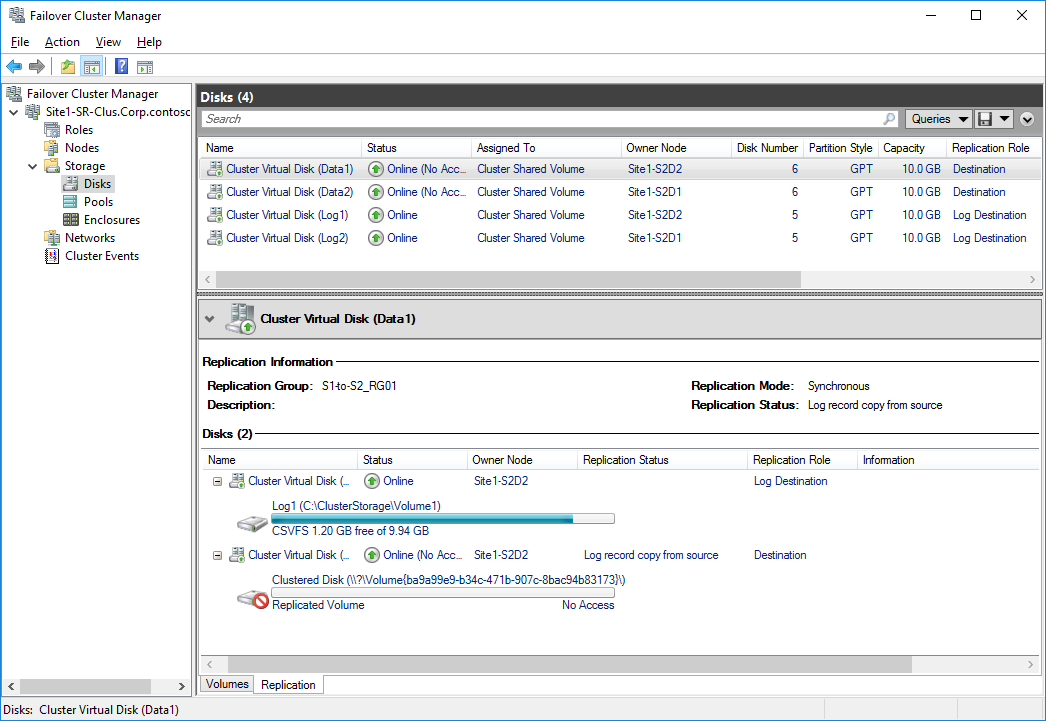
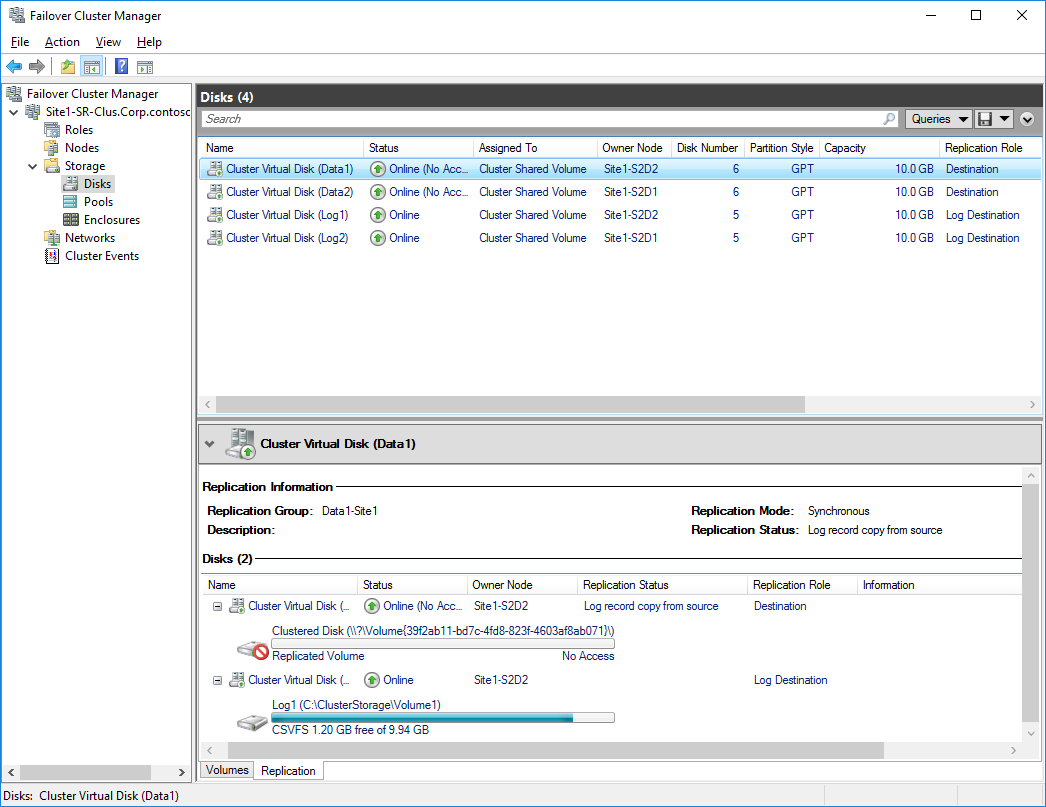
fix
Former-commit-id: b105ae37fa96ade2399ccb57d3c7bb18d4d5b37e

diff --git a/Scenarios/StorageReplica/S2D_to_S2D_Complex/readme.md b/Scenarios/StorageReplica/S2D_to_S2D_Complex/readme.md
@@ -24,7 +24,7 @@
 * In this scenario will be 2 s2d clusters created
 * it is "complex" as it will create 4 volumes (2x Data and 2x Log volumes in each cluster), create VMs on each site and replicate VMs from first to second site and second to first.
 * Nanoservers are used as its just smaller and faster
-* Labscript takes ~32 minutes to finish.
+* Labscript takes 30-50 minutes to finish.
 
 ## Scenario requirements
 
@@ -88,8 +88,8 @@ Suspend-VM -Name *site1*
 #Variables
     $Cluster1Name="Site1-SR-Clus"
     $Cluster2Name="Site2-SR-Clus"
-    $SourceRGName="S1-to-S2_RG02"
-    $DestinationRGName="S1-to-S2_RG01"
+    $SourceRGName="Data1-Site2"
+    $DestinationRGName="Data1-Site1"
 
 #Flip replication
     Set-SRPartnership -NewSourceComputerName $Cluster2Name -SourceRGName $SourceRGName -DestinationComputerName $Cluster1Name -DestinationRGName $DestinationRGName -confirm:$false
@@ -148,8 +148,8 @@ All changes in primary datacenter will be discarted
 #Variables
     $Cluster1Name="Site1-SR-Clus"
     $Cluster2Name="Site2-SR-Clus"
-    $SourceRGName="S1-to-S2_RG02"
-    $DestinationRGName="S1-to-S2_RG01"
+    $SourceRGName="Data1-Site2"
+    $DestinationRGName="Data1-Site1"
 
 #Flip replication
     Set-SRPartnership -NewSourceComputerName $Cluster2Name -SourceRGName $SourceRGName -DestinationComputerName $Cluster1Name -DestinationRGName $DestinationRGName -confirm:$false
@@ -170,8 +170,8 @@ Since VMs lost its storage, all actions will timeout.
 #Variables
     $Cluster1Name="Site1-SR-Clus"
     $Cluster2Name="Site2-SR-Clus"
-    $SourceRGName="S1-to-S2_RG01"
-    $DestinationRGName="S1-to-S2_RG02"
+    $SourceRGName="Data1-Site1"
+    $DestinationRGName="Data1-Site2"
 
 #cleanup VMs
     #Shut down VMs on Data1 volume
@@ -188,7 +188,7 @@ Since VMs lost its storage, all actions will timeout.
             param($VM);
             Copy-Item -Path "$($VM.Path)\Virtual Machines" -Destination "$($VM.Path)\Virtual Machines Bak" -recurse
             Get-VM -Id $VM.id | Remove-VM -force
-            Copy-Item -Path "$($VM.Path)\Virtual Machines Bak" -Destination "$($VM.Path)\Virtual Machines" -recurse
+            Copy-Item -Path "$($VM.Path)\Virtual Machines Bak\*" -Destination "$($VM.Path)\Virtual Machines" -recurse
             Remove-Item -Path "$($VM.Path)\Virtual Machines Bak" -recurse
         }
     }
@@ -197,35 +197,54 @@ Since VMs lost its storage, all actions will timeout.
 
 ````
 
-Meanwhile all VMs disappeared, but cluster resources are still on Cluster1
-
-![](/Scenarios/StorageReplica/S2D_to_S2D_Complex/Screenshots/failedresourcesafterfliptoDC1.png)
+Meanwhile VMs disappeared (or semi-disappered) but (some) cluster resources are still on Cluster1
 
 ````PowerShell
 $Cluster1Name="Site1-SR-Clus"
 
-#see that all VMs are gone
+#see that some VMs are gone
 Get-VM -Cimsession (Get-ClusterNode -Cluster $Cluster1Name).Name
 
 #see that there are some dead resources
 Get-ClusterGroup -Cluster $Cluster1Name | where state -eq failed
  
 ````
+![](/Scenarios/StorageReplica/S2D_to_S2D_Complex/Screenshots/failedresourcesafterfliptoDC1.png)
 
 ## Set the things right 3 - cleanup failed resources and import machines
 
 ````PowerShell
 $Cluster1Name="Site1-SR-Clus"
-#remove failed resources
-Get-ClusterGroup -Cluster $Cluster1Name | where state -eq failed | Remove-ClusterGroup -RemoveResources -Force
-
 #Import all VMs on Site1
+    Invoke-Command -ComputerName (get-clusternode -cluster $Cluster1Name).Name[0] -ScriptBlock{
+        get-childitem C:\ClusterStorage\Data1 -Recurse | Where-Object {($_.extension -eq '.vmcx' -and $_.directory -like '*Virtual Machines*') -or ($_.extension -eq '.xml' -and $_.directory -like '*Virtual Machines*')} | ForEach-Object -Process {
+            Import-VM -Path $_.FullName -ErrorAction SilentlyContinue
+        }
+    }
+
+#perform proper cleanup of VMs located on Data1 volume
+    $VMs=Get-VM -Cimsession (Get-ClusterNode -Cluster $Cluster1Name).Name | where Path -like *Data1*
+    #Find VMs resources
+    foreach ($VM in $VMs){
+        Get-ClusterGroup -Cluster $Cluster1Name | where Name -eq $VM.Name | Remove-ClusterGroup -RemoveResources -Force
+    }
+    #Backup VMs config and remove VMs from Hyper-V hosts.
+    Foreach ($VM in $VMs){
+        invoke-command -computername $VM.ComputerName -ArgumentList $VM -scriptblock {
+            param($VM);
+            Copy-Item -Path "$($VM.Path)\Virtual Machines" -Destination "$($VM.Path)\Virtual Machines Bak" -recurse
+            $vms | Stop-VM -Force -ErrorAction SilentlyContinue #stop VM if its in paused critical state
+            Get-VM -Id $VM.id | Remove-VM -force
+            Copy-Item -Path "$($VM.Path)\Virtual Machines Bak\*" -Destination "$($VM.Path)\Virtual Machines" -recurse -ErrorAction SilentlyContinue
+            Remove-Item -Path "$($VM.Path)\Virtual Machines Bak" -recurse
+        }
+    }
+#Import VMs again
     Invoke-Command -ComputerName (get-clusternode -cluster $Cluster1Name).Name[0] -ScriptBlock{
         get-childitem C:\ClusterStorage\Data1 -Recurse | Where-Object {($_.extension -eq '.vmcx' -and $_.directory -like '*Virtual Machines*') -or ($_.extension -eq '.xml' -and $_.directory -like '*Virtual Machines*')} | ForEach-Object -Process {
             Import-VM -Path $_.FullName
         }
     }
-
 #Add VMs as Highly available and Start
     $VMnames=(Get-VM -CimSession (Get-ClusterNode -Cluster $Cluster1Name).Name | where path -like *Data1*).Name
     $VMNames | ForEach-Object {Add-ClusterVirtualMachineRole -VMName $_ -Cluster $Cluster1Name}
@@ -233,4 +252,6 @@ Get-ClusterGroup -Cluster $Cluster1Name | where state -eq failed | Remove-Cluste
  
 ````
 
+**Result: All good again**
 
+![](/Scenarios/StorageReplica/S2D_to_S2D_Complex/Screenshots/result-allgoodagain.png)
